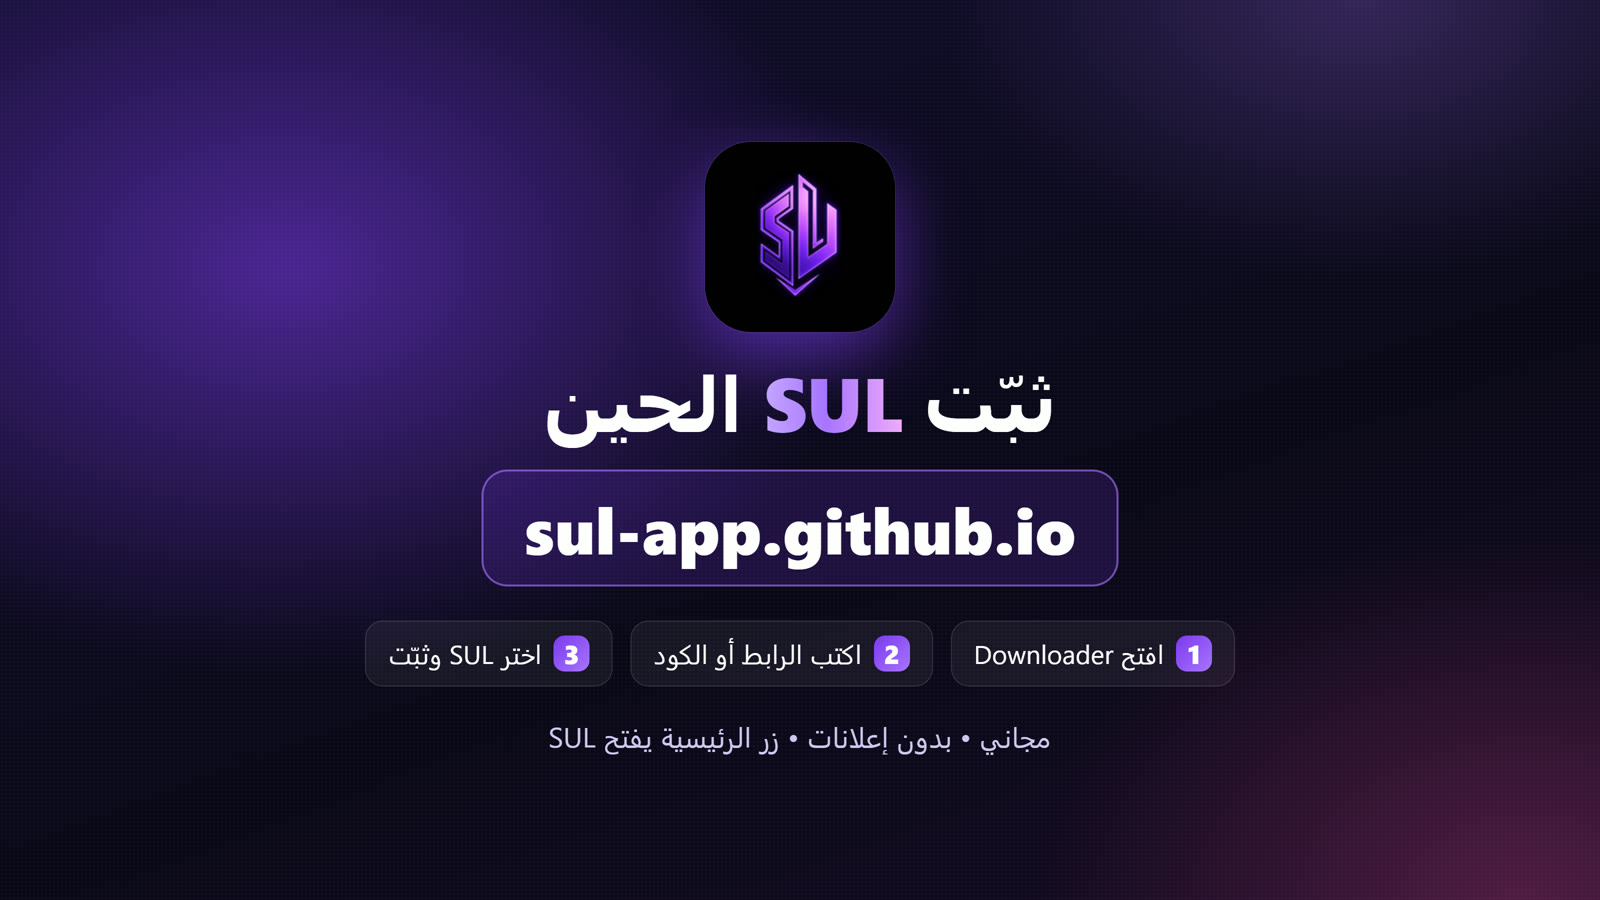
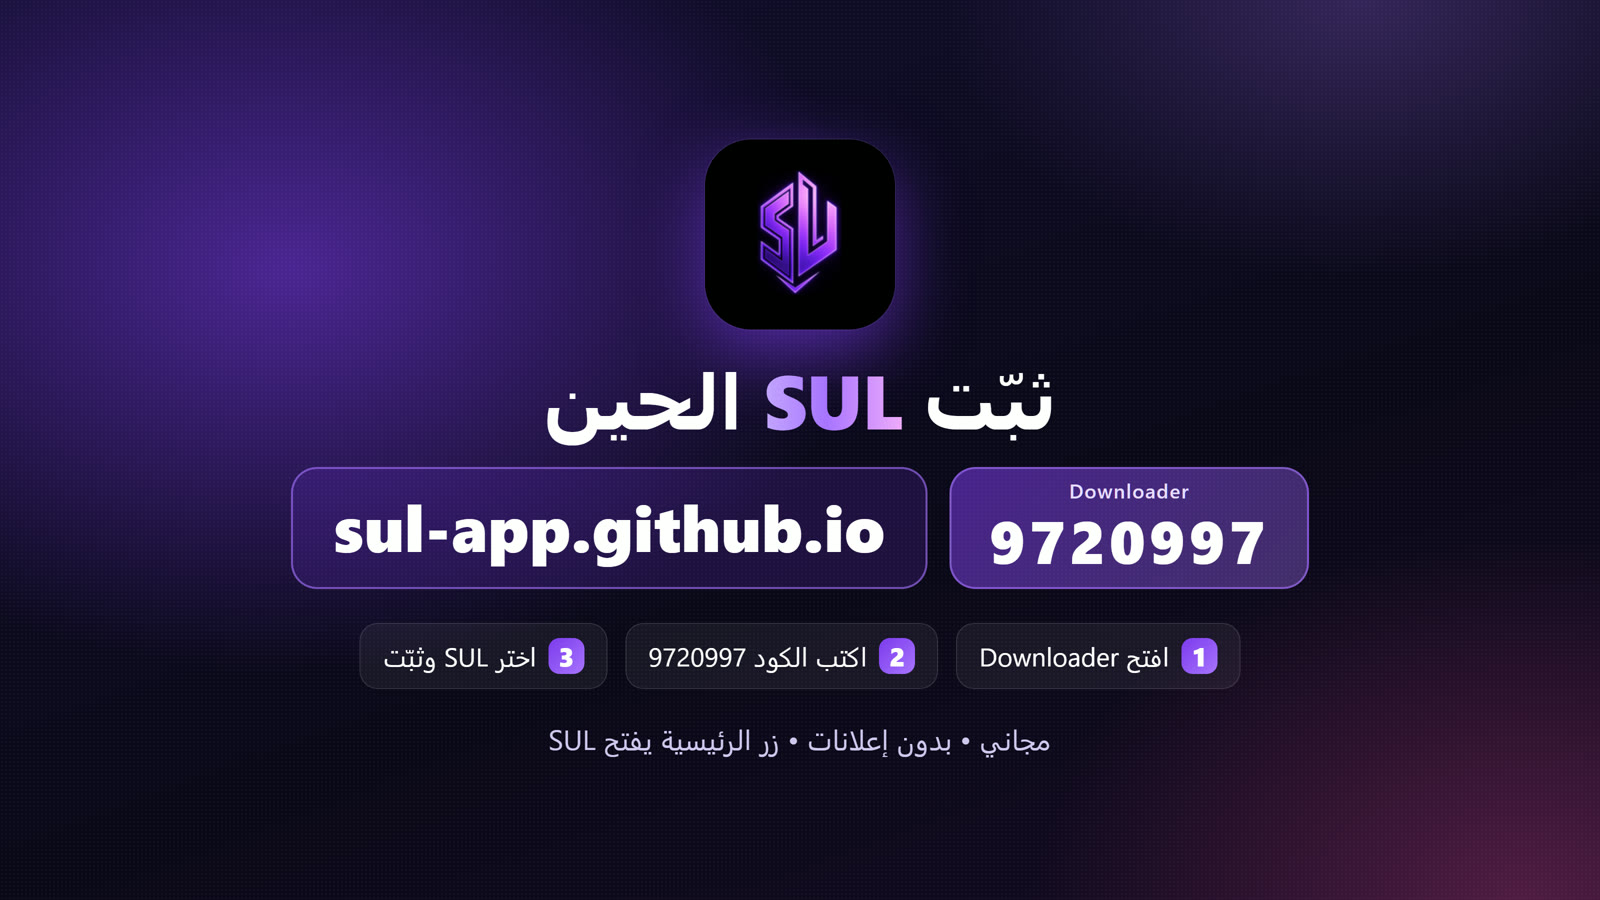
Fix Launcher Manager card, add Downloader code

diff --git a/index.html b/index.html
@@ -54,6 +54,8 @@
   summary { cursor: pointer; font-weight: 700; font-size: 17px; outline: none; }
   details[open] summary { margin-bottom: 8px; }
   details p { margin: 6px 0; color: var(--mute); }
+  .code { display: inline-block; margin-top: 18px; padding: 10px 20px; border-radius: 16px; background: rgba(124,58,237,.16); border: 1px solid #5b3fb0; font-size: 19px; color: #e6dcff; }
+  .code b { direction: ltr; unicode-bidi: isolate; font-size: 26px; letter-spacing: 2px; color: #fff; margin-inline-start: 6px; }
   .shots { display: grid; grid-template-columns: repeat(auto-fill, minmax(420px, 1fr)); gap: 14px; }
   .shots img { width: 100%; height: auto; border-radius: 16px; border: 1px solid var(--line); display: block; }
   @media (max-width: 600px) { .shots { grid-template-columns: 1fr; } }
@@ -75,6 +77,7 @@
       <a class="btn alt" href="#install">طريقة التثبيت</a>
       <a class="btn alt" href="#features">وش يسوي</a>
     </div>
+    <div class="code">كود Downloader: <b>9720997</b></div>
   </div>
 </header>
 
@@ -95,7 +98,7 @@
     </a>
     <a class="dl" href="Launcher-Manager.apk" download>
       <span class="num">3</span>
-      <span><div class="n">Launcher Manager</div><div class="d">للتثبيت الكامل: يخلي SUL الواجهة الوحيدة في الجهاز بدل واجهة جوجل (<a href="#full">الطريقة</a>)</div></span>
+      <span><div class="n">Launcher Manager</div><div class="d">للتثبيت الكامل: يخلي SUL الواجهة الوحيدة في الجهاز بدل واجهة جوجل • الطريقة تحت في «التثبيت الكامل»</div></span>
       <span class="badge">1.5 MB</span>
     </a>
   </div>
@@ -107,7 +110,7 @@
     <p class="lead">من تطبيق Downloader على التلفزيون أو البوكس، أو بنقل الملف بفلاشة.</p>
     <ol class="steps">
       <li><b>اسمح بتثبيت التطبيقات:</b> الإعدادات ← التطبيقات ← الأمان والقيود ← مصادر غير معروفة، وفعّل Downloader (أو مدير الملفات اللي تستخدمه).</li>
-      <li><b>نزّل SUL:</b> افتح Downloader واكتب الكود أو رابط هذي الصفحة، واختر «SUL» من قسم التنزيل، ثم «تثبيت».</li>
+      <li><b>نزّل SUL:</b> افتح Downloader واكتب الكود <code>9720997</code> (أو الرابط <code>sul-app.github.io</code>)، واختر «SUL» من قسم التنزيل، ثم «تثبيت».</li>
       <li><b>افتح SUL:</b> يطلع لك دليل أول تشغيل يعرّفك على الواجهة، واختر اللغة (عربي أو إنجليزي).</li>
       <li><b>خلّ زر الرئيسية يفتح SUL:</b> من إعدادات SUL ← «النظام والأداء» ← «زر الرئيسية يفتح SUL». اضغط «تفعيل الخدمة بـShizuku»، أو «فتح إعدادات إمكانية الوصول» وفعّل «SUL — زر الرئيسية». بعدها كل ما تضغط زر الرئيسية في الريموت ينفتح SUL، والضغطة المطوّلة تفتح الإعدادات السريعة مثل العادة.</li>
       <li><b>(اختياري) Shizuku:</b> ثبّته وشغّله من التلفزيون نفسه بدون كمبيوتر (الطريقة تحت)، ثم افتح SUL ووافق على طلب الصلاحية.</li>
